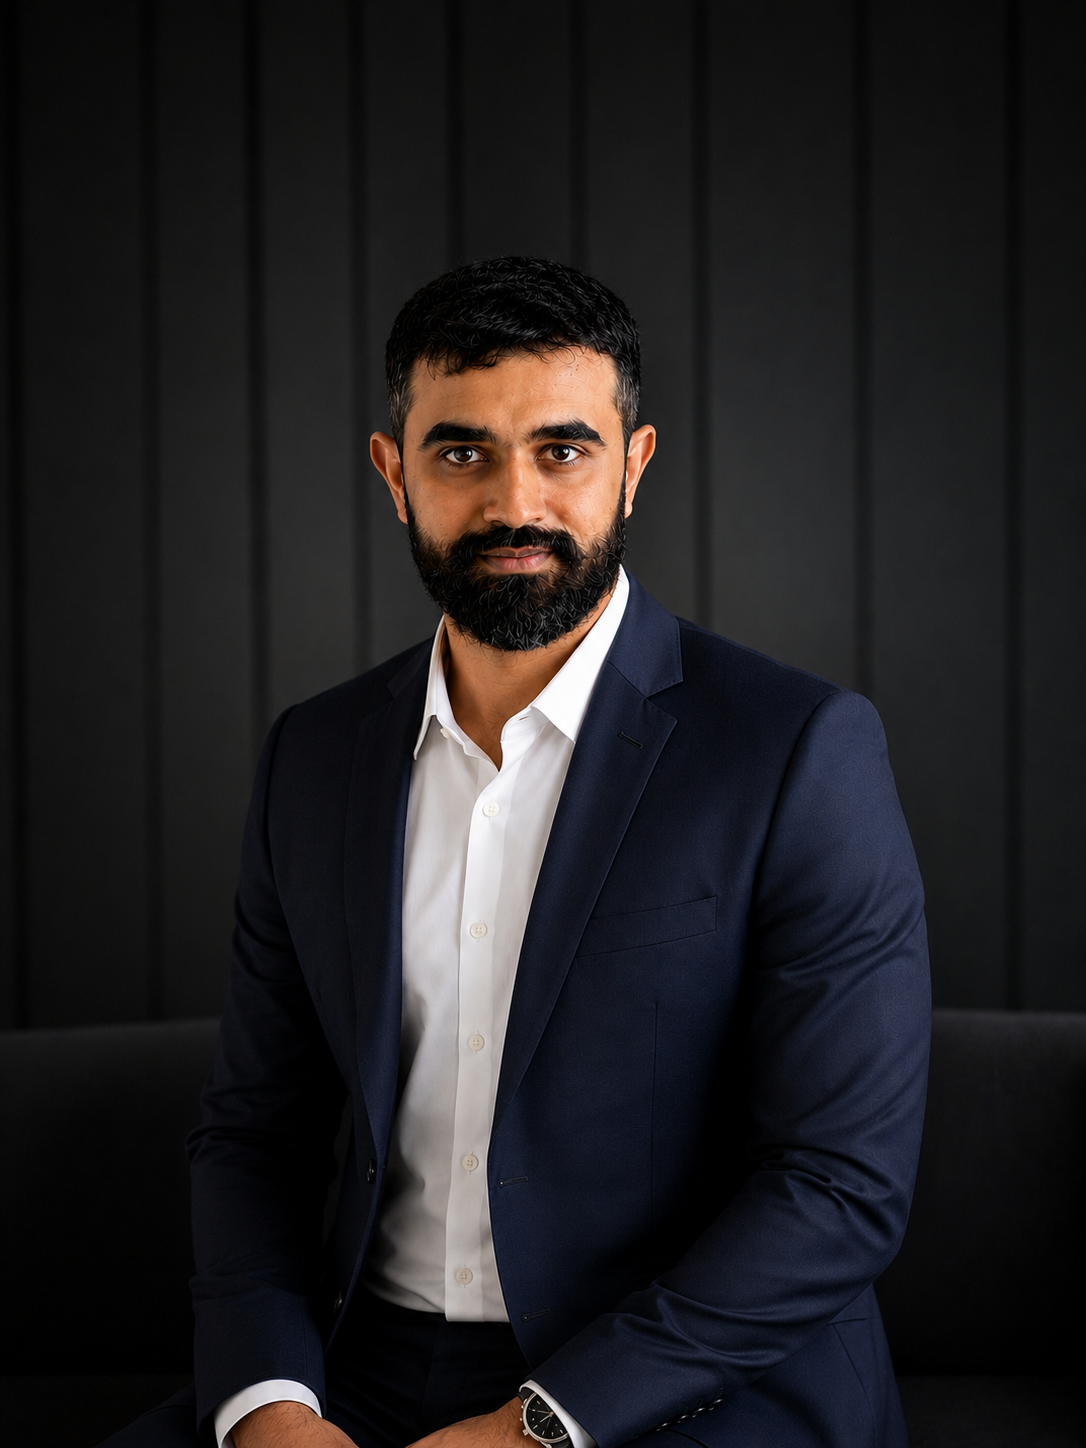
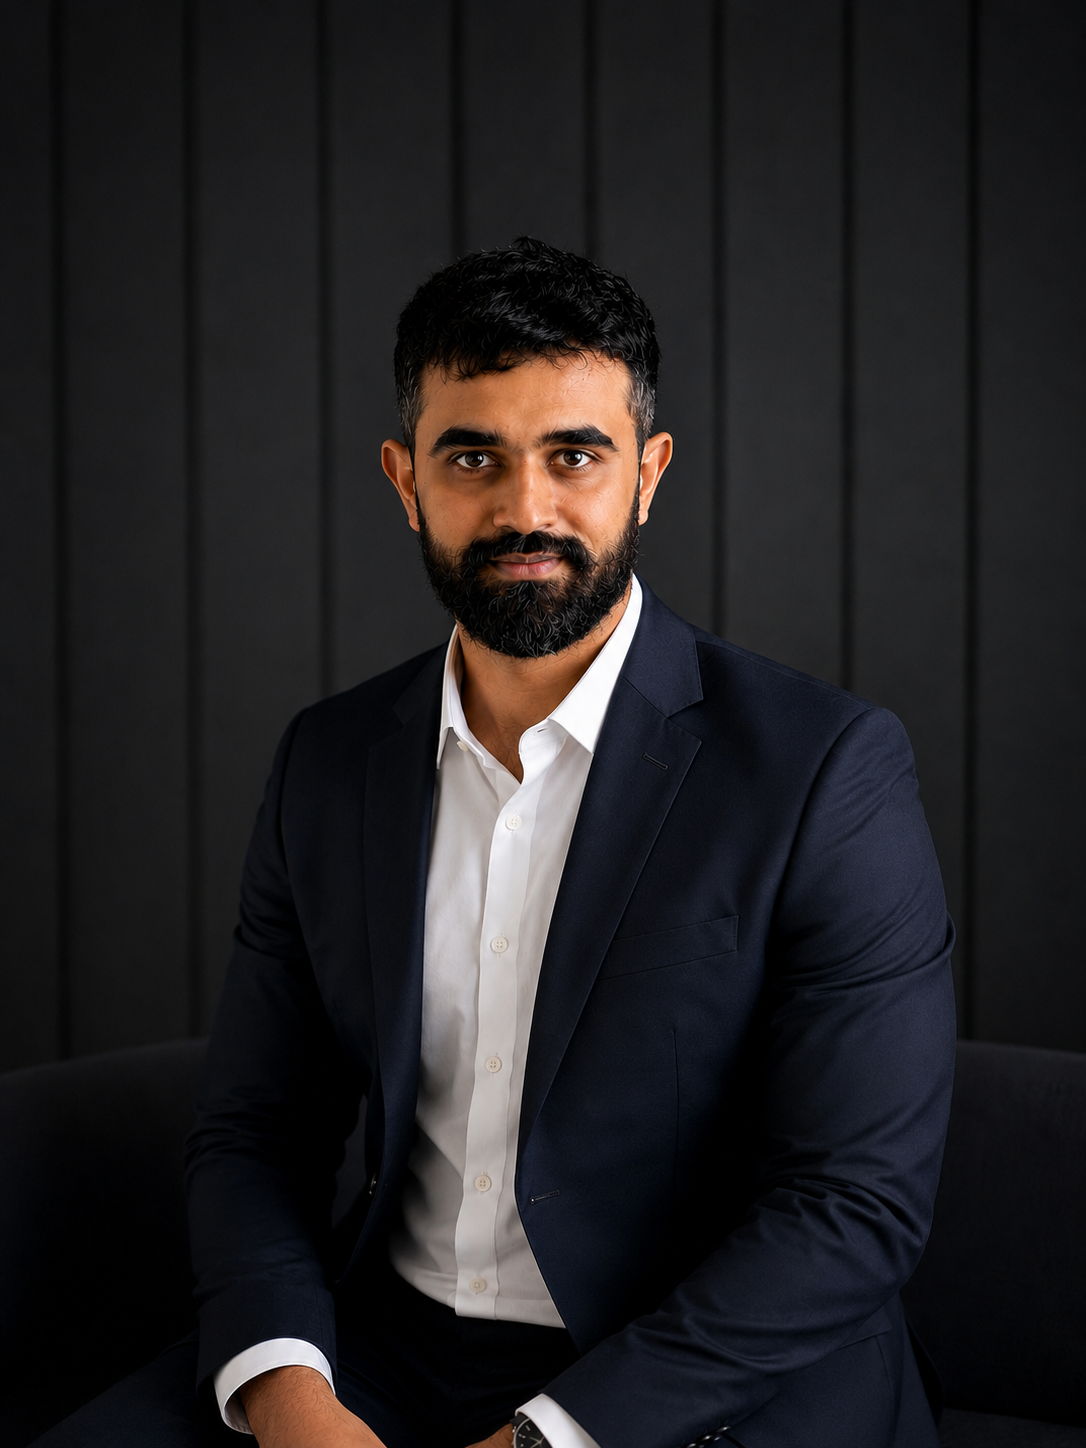
updated the portfolio file

diff --git a/index.html b/index.html
@@ -50,7 +50,8 @@ html[data-theme="light"]{
   color-scheme: light;
 }
 *{box-sizing:border-box;}
-html{scroll-behavior:smooth;}
+html{scroll-behavior:smooth; scrollbar-width:none; -ms-overflow-style:none;}
+html::-webkit-scrollbar{display:none;}
 body{
   margin:0;
   background:var(--void);
@@ -61,7 +62,10 @@ body{
   -webkit-font-smoothing:antialiased;
   overflow-x:hidden;
   transition:background .35s ease, color .35s ease;
+  scrollbar-width:none;
+  -ms-overflow-style:none;
 }
+body::-webkit-scrollbar{display:none;}
 ::selection{background:var(--ice-1); color:var(--on-frost);}
 img,svg{display:block; max-width:100%;}
 a{color:inherit;}
@@ -78,7 +82,7 @@ a{color:inherit;}
   letter-spacing:.16em; color:var(--ice-1); font-weight:500; margin:0 0 16px;
   display:flex; align-items:center; gap:10px;
 }
-.eyebrow::before{content:""; width:18px; height:1px; background:var(--ice-1); display:inline-block;}
+
 
 h1,h2,h3{font-family:'Space Grotesk', sans-serif; font-weight:600; letter-spacing:-0.01em; margin:0;}
 